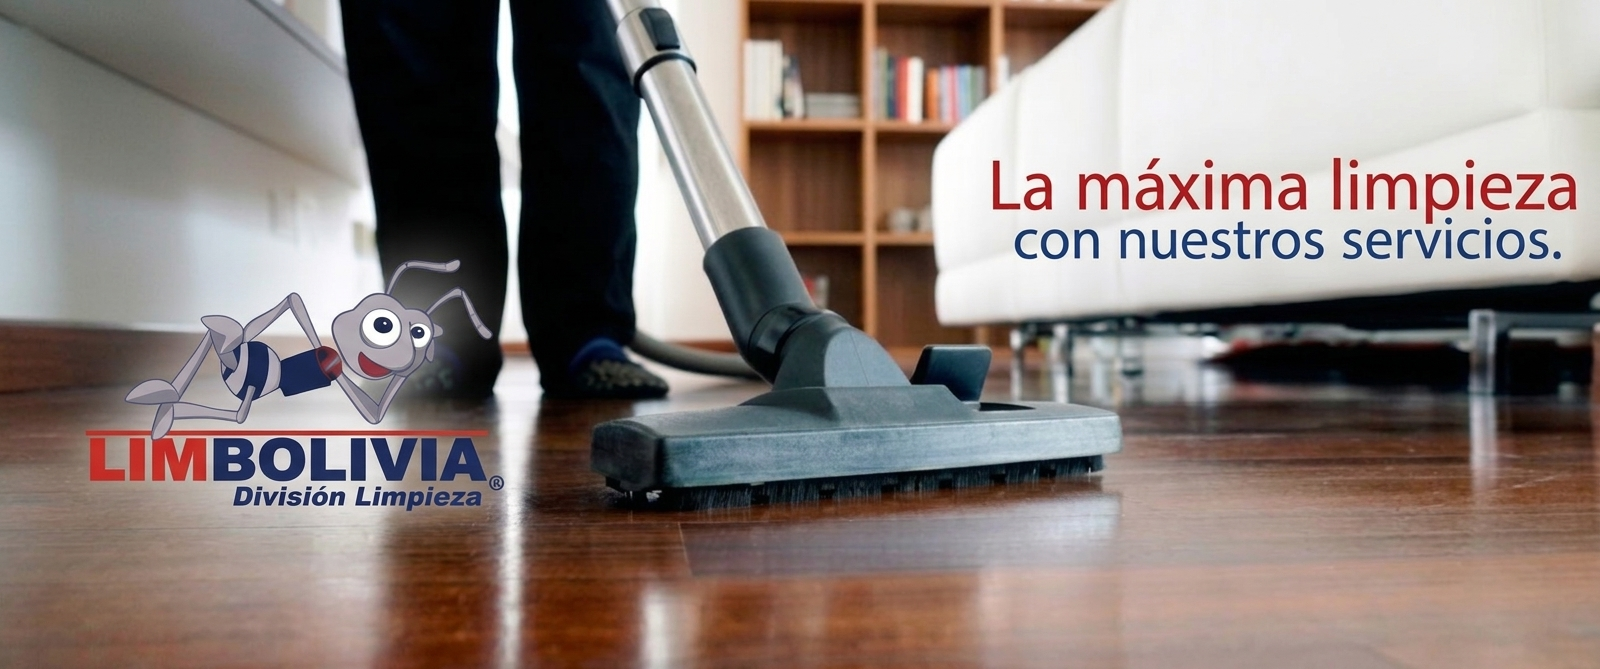
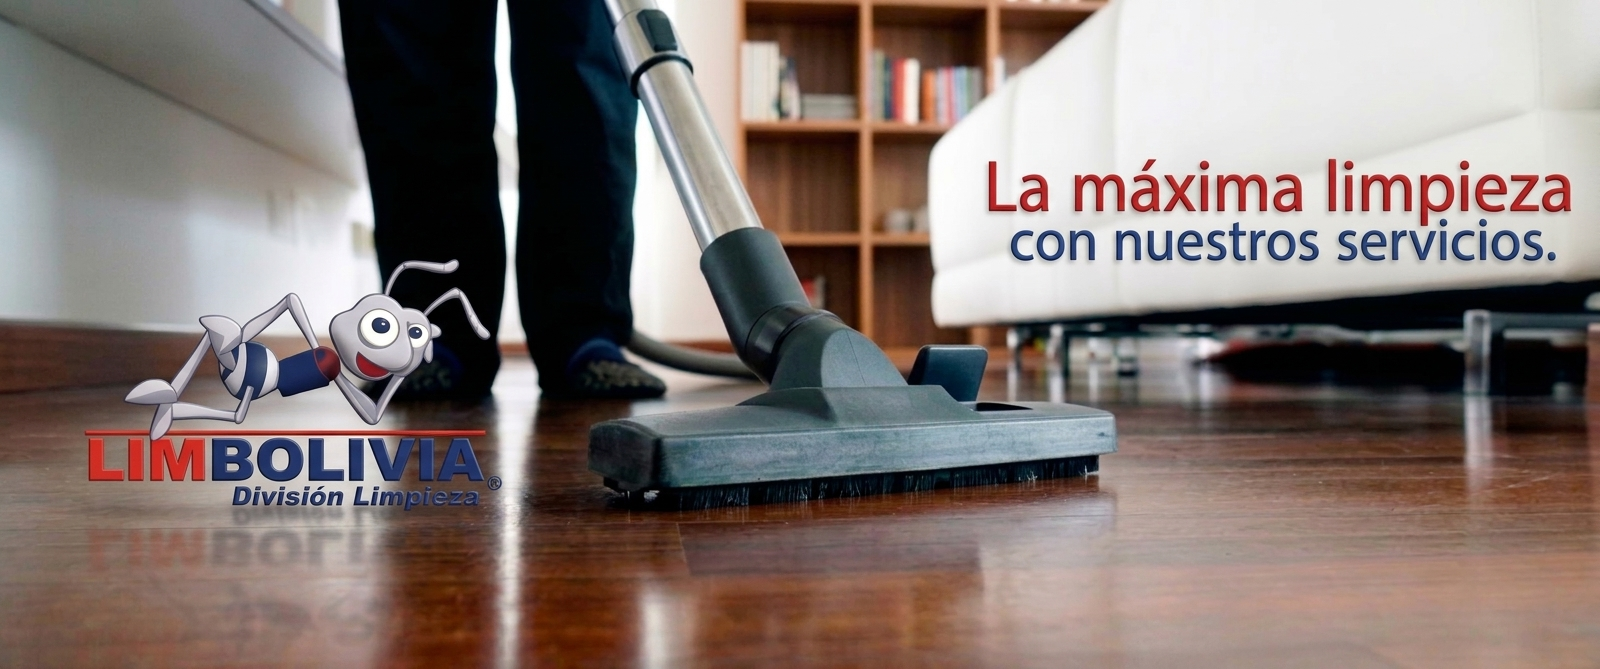
Feat: implementacion de extras dinamicos y logica de cobro minimo

diff --git a/public/index.html b/public/index.html
@@ -8882,7 +8882,7 @@
         // ==========================================
         // 6. CARRUSEL
         // ==========================================
-        var slideImages = ['/img/banner11.jpg', '/img/banner2.jpg', '/img/banner6.png', '/img/banner4.png', '/img/banner5.png'];
+        var slideImages = ['/img/banner11.jpg', '/img/banner2.jpg', '/img/banner4.png', '/img/banner6.jpg', '/img/banner5.jpg'];
         var currentSlide = 0;
 
         function updateSlide() {
